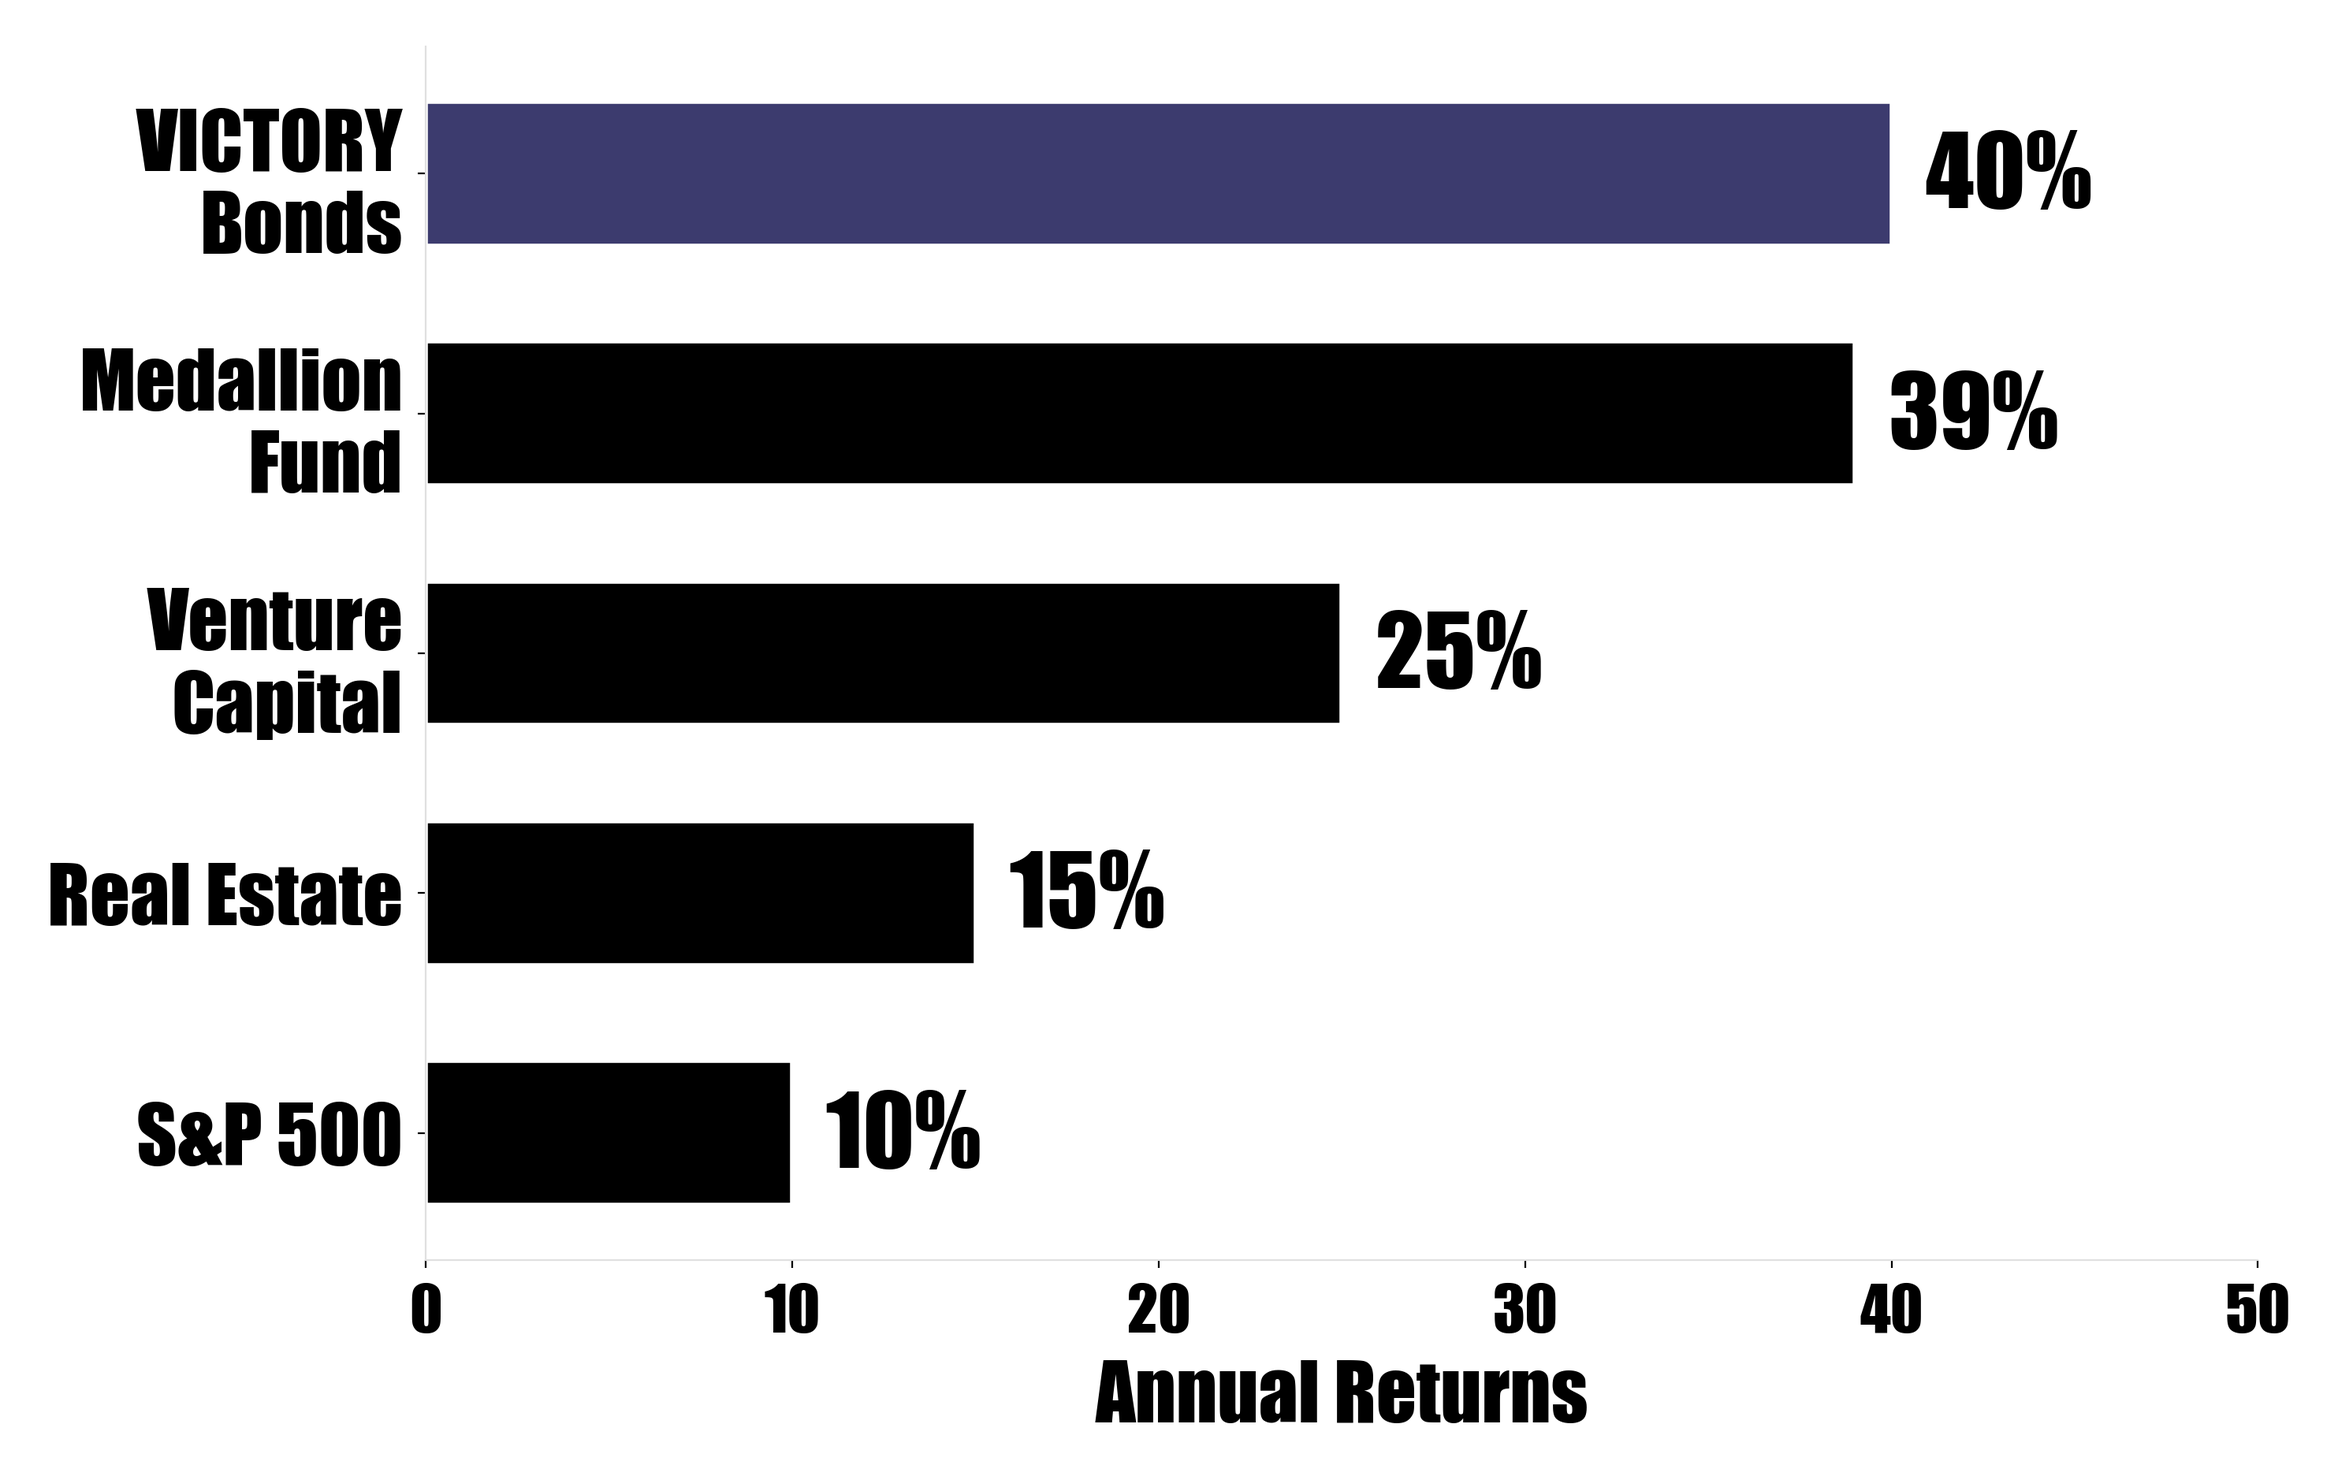
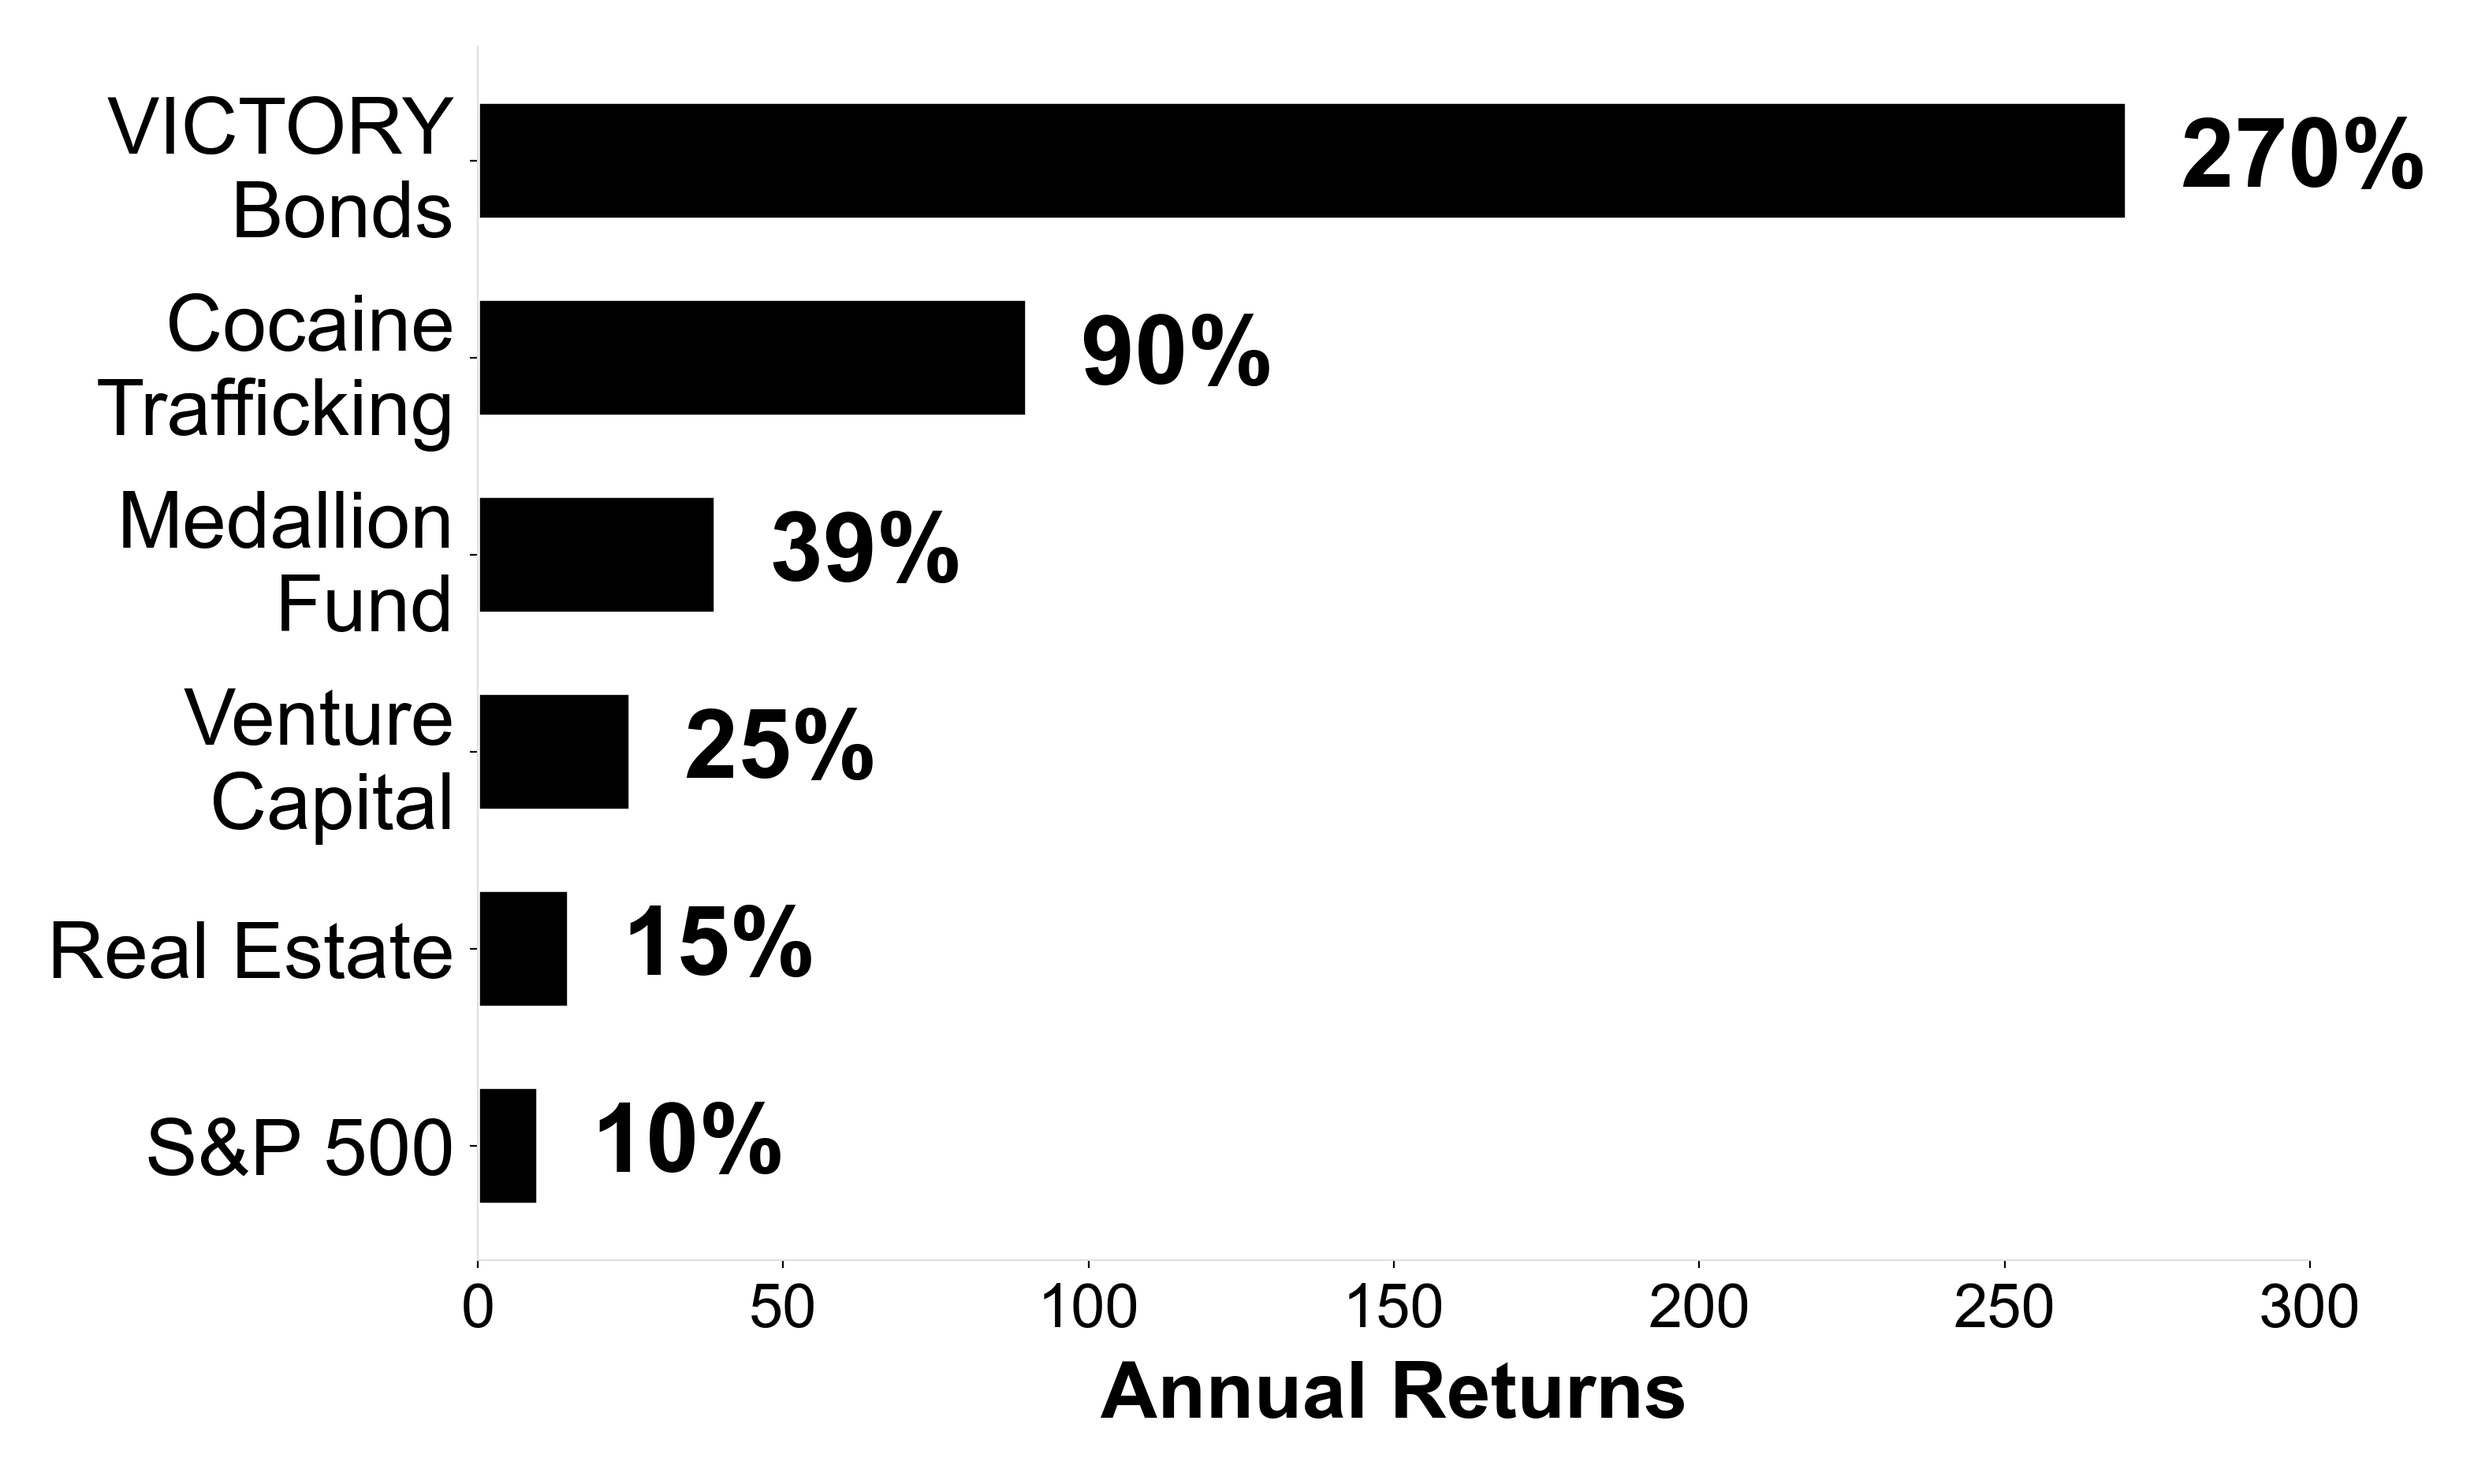
Update victory bonds returns figure caption and data values for accuracy. Add guideline for rendering and reviewing output images of quarto files in CLAUDE.md.

diff --git a/CLAUDE.md b/CLAUDE.md
@@ -13,3 +13,5 @@ This is a Quarto-based book project: "The Complete Idiot's Guide to Ending War a
 ## Content Standards
 
 **See `CONTRIBUTING.md` for complete writing guidelines, style requirements, and content standards.**
+
+Please render and critically review output images of quarto files whenever you modify figure generating files. 
